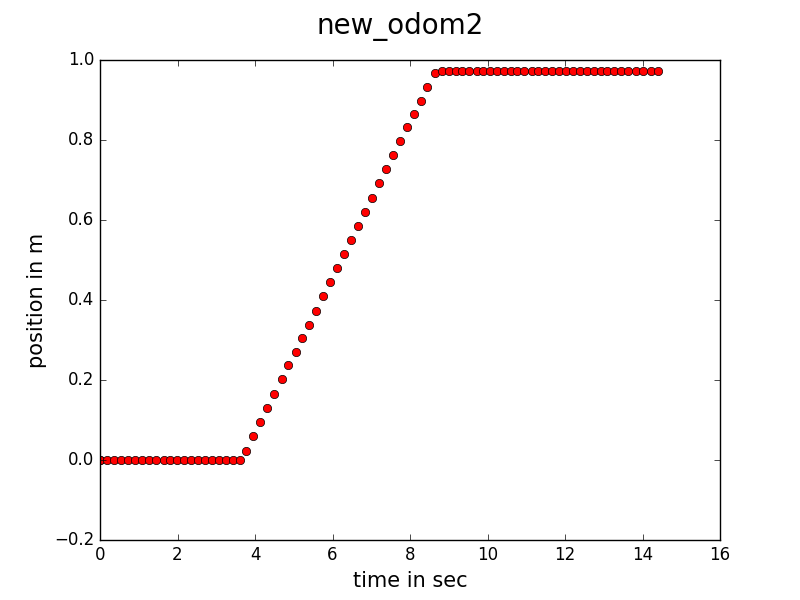
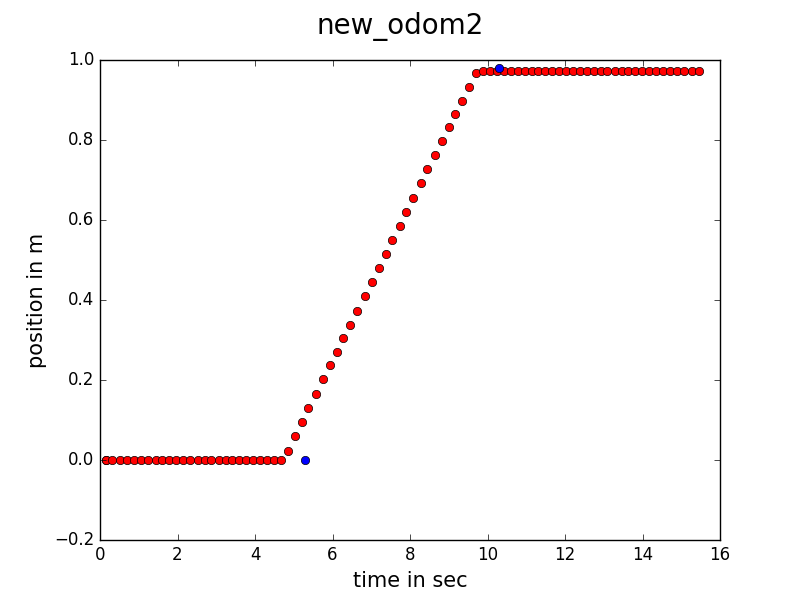
commented and updated

diff --git a/catkin_ws/src/kalman_filter/src/kalman_fil.py b/catkin_ws/src/kalman_filter/src/kalman_fil.py
@@ -7,10 +7,17 @@ matplotlib.use('Agg')
 import matplotlib.pyplot as plt
 import time
 
-CERT = 2            # set value for uncertainty estimate initially
+BAG_DUR = 18        # duration of bag (used to sleep so all messages are recieved)
+CERT = .1           # set value for uncertainty estimate initially
 MAX_SCAN = 3        # set longest scan distance to avoint 'inf' scan msgs
+START = 5.3         # start time of movement forward in bag (actual)
+START_POS = 0       # initial position (actual)
+END = 10.3           # end time of movement in bag
+END_POS = 0.98      # final position (acutal)
 
+# class to implement the Kalman Filter
 class Kalman:
+    #initialize matrices to correct sizes
     def __init__(self, F = None, B = None, H = None, Q = None, R = None, P = None, x0 = None):
         self.n = F.shape[1]
         self.m = H.shape[1]
@@ -38,19 +45,21 @@ class Kalman:
         else:
             self.x = x0
 
+    # function for propogation step
     def predict(self, u = 0):
         self.x = np.dot(self.F, self.x) + np.dot(self.B, u)
         self.P = np.dot(np.dot(self.F, self.P), self.F.T) + self.Q
         return self.x
 
+    # function for correction step
     def correct(self, z):
         self.r = z - np.dot(self.H, self.x)
-        # compute sensor covariance
         self.S = self.R + np.dot(self.H, np.dot(self.P, self.H.T))
         self.K = np.dot(np.dot(self.P, self.H.T), np.linalg.inv(self.S))
         self.x = self.x + np.dot(self.K, self.r)
         self.P = self.P - (np.dot(np.dot(np.dot(np.dot(self.P, self.H.T), np.linalg.inv(self.S)), self.H), self.P)) 
 
+# class for publishing PoseWithCovarianceStamped msgs (from kalman estimates)
 class Run:
     def __init__(self):
         rospy.init_node('kalman')
@@ -64,17 +73,20 @@ class Run:
         self.vel_scan_pts = []
         rospy.sleep(1)
 
+    # callback for cmd_vel subscriber
     def vel_callback(self, msg):
         self.vel = msg.linear.x
 
+    # callback for scan subscriber
     def scan_callback(self, msg):
         if msg.ranges[0] <= MAX_SCAN:
-            self.scan = 2-msg.ranges[0] 			# Scan or 2-scan ???????
+            self.scan = 2-msg.ranges[0]        # put in global frame
             self.t = rospy.Time.now().to_sec()
             self.execute()
         else:
             pass
 
+    # function to implement Kalman filter, publish messages, and store points for plotting
     def execute(self):
         self.cur_time = rospy.Time.now().to_sec()
         delta_t = self.start_time - self.t
@@ -84,13 +96,13 @@ class Run:
         Q = np.array([[1]])                 # uncertainty in motion
         R = np.array([[1]])                 # error (stand dev)
         H = np.array([[1]])                 # world frame transformation
-        a = Kalman(F, B, H, Q, R, self.uncert, self.pos)    # initialize 
+        a = Kalman(F, B, H, Q, R, self.uncert, self.pos)    # initialize Kalman 
         a.predict(self.vel)                 # predict with vel of 'u'm/s
-        a.correct(abs(self.scan))                # predict with sense of 'z'm moved
-        self.uncert = a.P
-        print(self.scan)
-        self.pos = a.x[0][0]
+        a.correct(self.scan)                # predict with sense of 'z'm moved
+        self.uncert = a.P                   # update P
+        self.pos = a.x[0][0]                # update position
 
+        # create and publish msg
         pose_msg = PoseWithCovarianceStamped()
         rate = rospy.Rate(10)
         pose_msg.header.frame_id = 'frame'
@@ -101,8 +113,9 @@ class Run:
         rate.sleep()
 
         # append points for plotting later
-        self.vel_scan_pts.append(((self.t - self.start_time), abs(self.pos)))
- 
+        self.vel_scan_pts.append(((self.t - self.start_time), self.pos))
+
+# class for subscribing to topics and implementing Kalman filter, and plotting info
 class SubAndPlot:
     def __init__(self):
         self.odom_sub = rospy.Subscriber('/pose', PoseStamped, self.odom_callback)
@@ -115,38 +128,43 @@ class SubAndPlot:
         self.scan_pose_pts = []
         rospy.sleep(1)
    
+    # callback for pose subscriber
     def odom_callback(self, msg):
         self.pos = msg.pose.position.x
         self.t = rospy.Time.now().to_sec()
         self.odom_pts.append(((self.t - self.start_time), self.pos))
 
+    # callback for cmd_vel subscriber
     def vel_callback(self, msg):
         self.vel = msg.linear.x
 
+    # callback for scan subscriber
     def scan_callback(self, msg):
         if msg.ranges[0] <= MAX_SCAN:
-            self.scan = 2-msg.ranges[0]                         # Scan or 2-scan ???????
+            self.scan = 2-msg.ranges[0]         # put in global frame	
             self.time = rospy.Time.now().to_sec()
             self.run_kalman()
         else:
             pass
 
+    # function for implementing Kalman filter and storing points for plotting
     def run_kalman(self):
         self.cur_time = rospy.Time.now().to_sec()
         delta_t = self.start_time - self.time
-
         F = np.array([[1]])                 # State transfromation
-        B = np.array([[delta_t]])                 # delta t
+        B = np.array([[delta_t]])           # delta t
         Q = np.array([[1]])                 # uncertainty in motion
         R = np.array([[1]])                 # error (stand dev)
         H = np.array([[1]])                 # world frame transformation
         a = Kalman(F, B, H, Q, R, self.uncert, self.pos)    # init
         a.predict(self.vel)                        # predict with vel of 'u'm/s
-        a.correct(self.scan)        # predict with sense of 'z'm moved
+        a.correct(self.scan)                # predict with sense of 'z'm moved
         self.uncert = a.P
-      #  self.pos = a.x[0][0]
+        self.pos = a.x[0][0]		    # Updated pose estimate
+        # store for plotting later
         self.scan_pose_pts.append(((self.time - self.start_time), round(self.pos, 2)))
 
+    # function for plotting information from a list of tuples
     def plot(self, pts, figname):
         fig = plt.figure()
         fig.suptitle(figname, fontsize=20)
@@ -155,16 +173,15 @@ class SubAndPlot:
         plt.plot([pts[0][0]], [pts[0][1]], 'ro', label=figname)
         for i in pts:
             plt.plot([i[0]],[i[1]], 'ro')
-        #plt.show()
+        plt.plot([START], [START_POS], 'bo', label="Real Pos")
+        plt.plot([END], [END_POS], 'bo')
         fig.savefig(figname+'.png')
         print("plotted")
 
 if __name__ == '__main__':
     a = Run()
     b = SubAndPlot()
-    rospy.sleep(18)
-#    print(b.scan_pose_pts)
-#    print(a.vel_scan_pts)
+    rospy.sleep(BAG_DUR)
     b.plot(b.odom_pts, "new_odom2")
     b.plot(b.scan_pose_pts, "new_scan_pose")
     b.plot(a.vel_scan_pts, "new_vel_scan")
